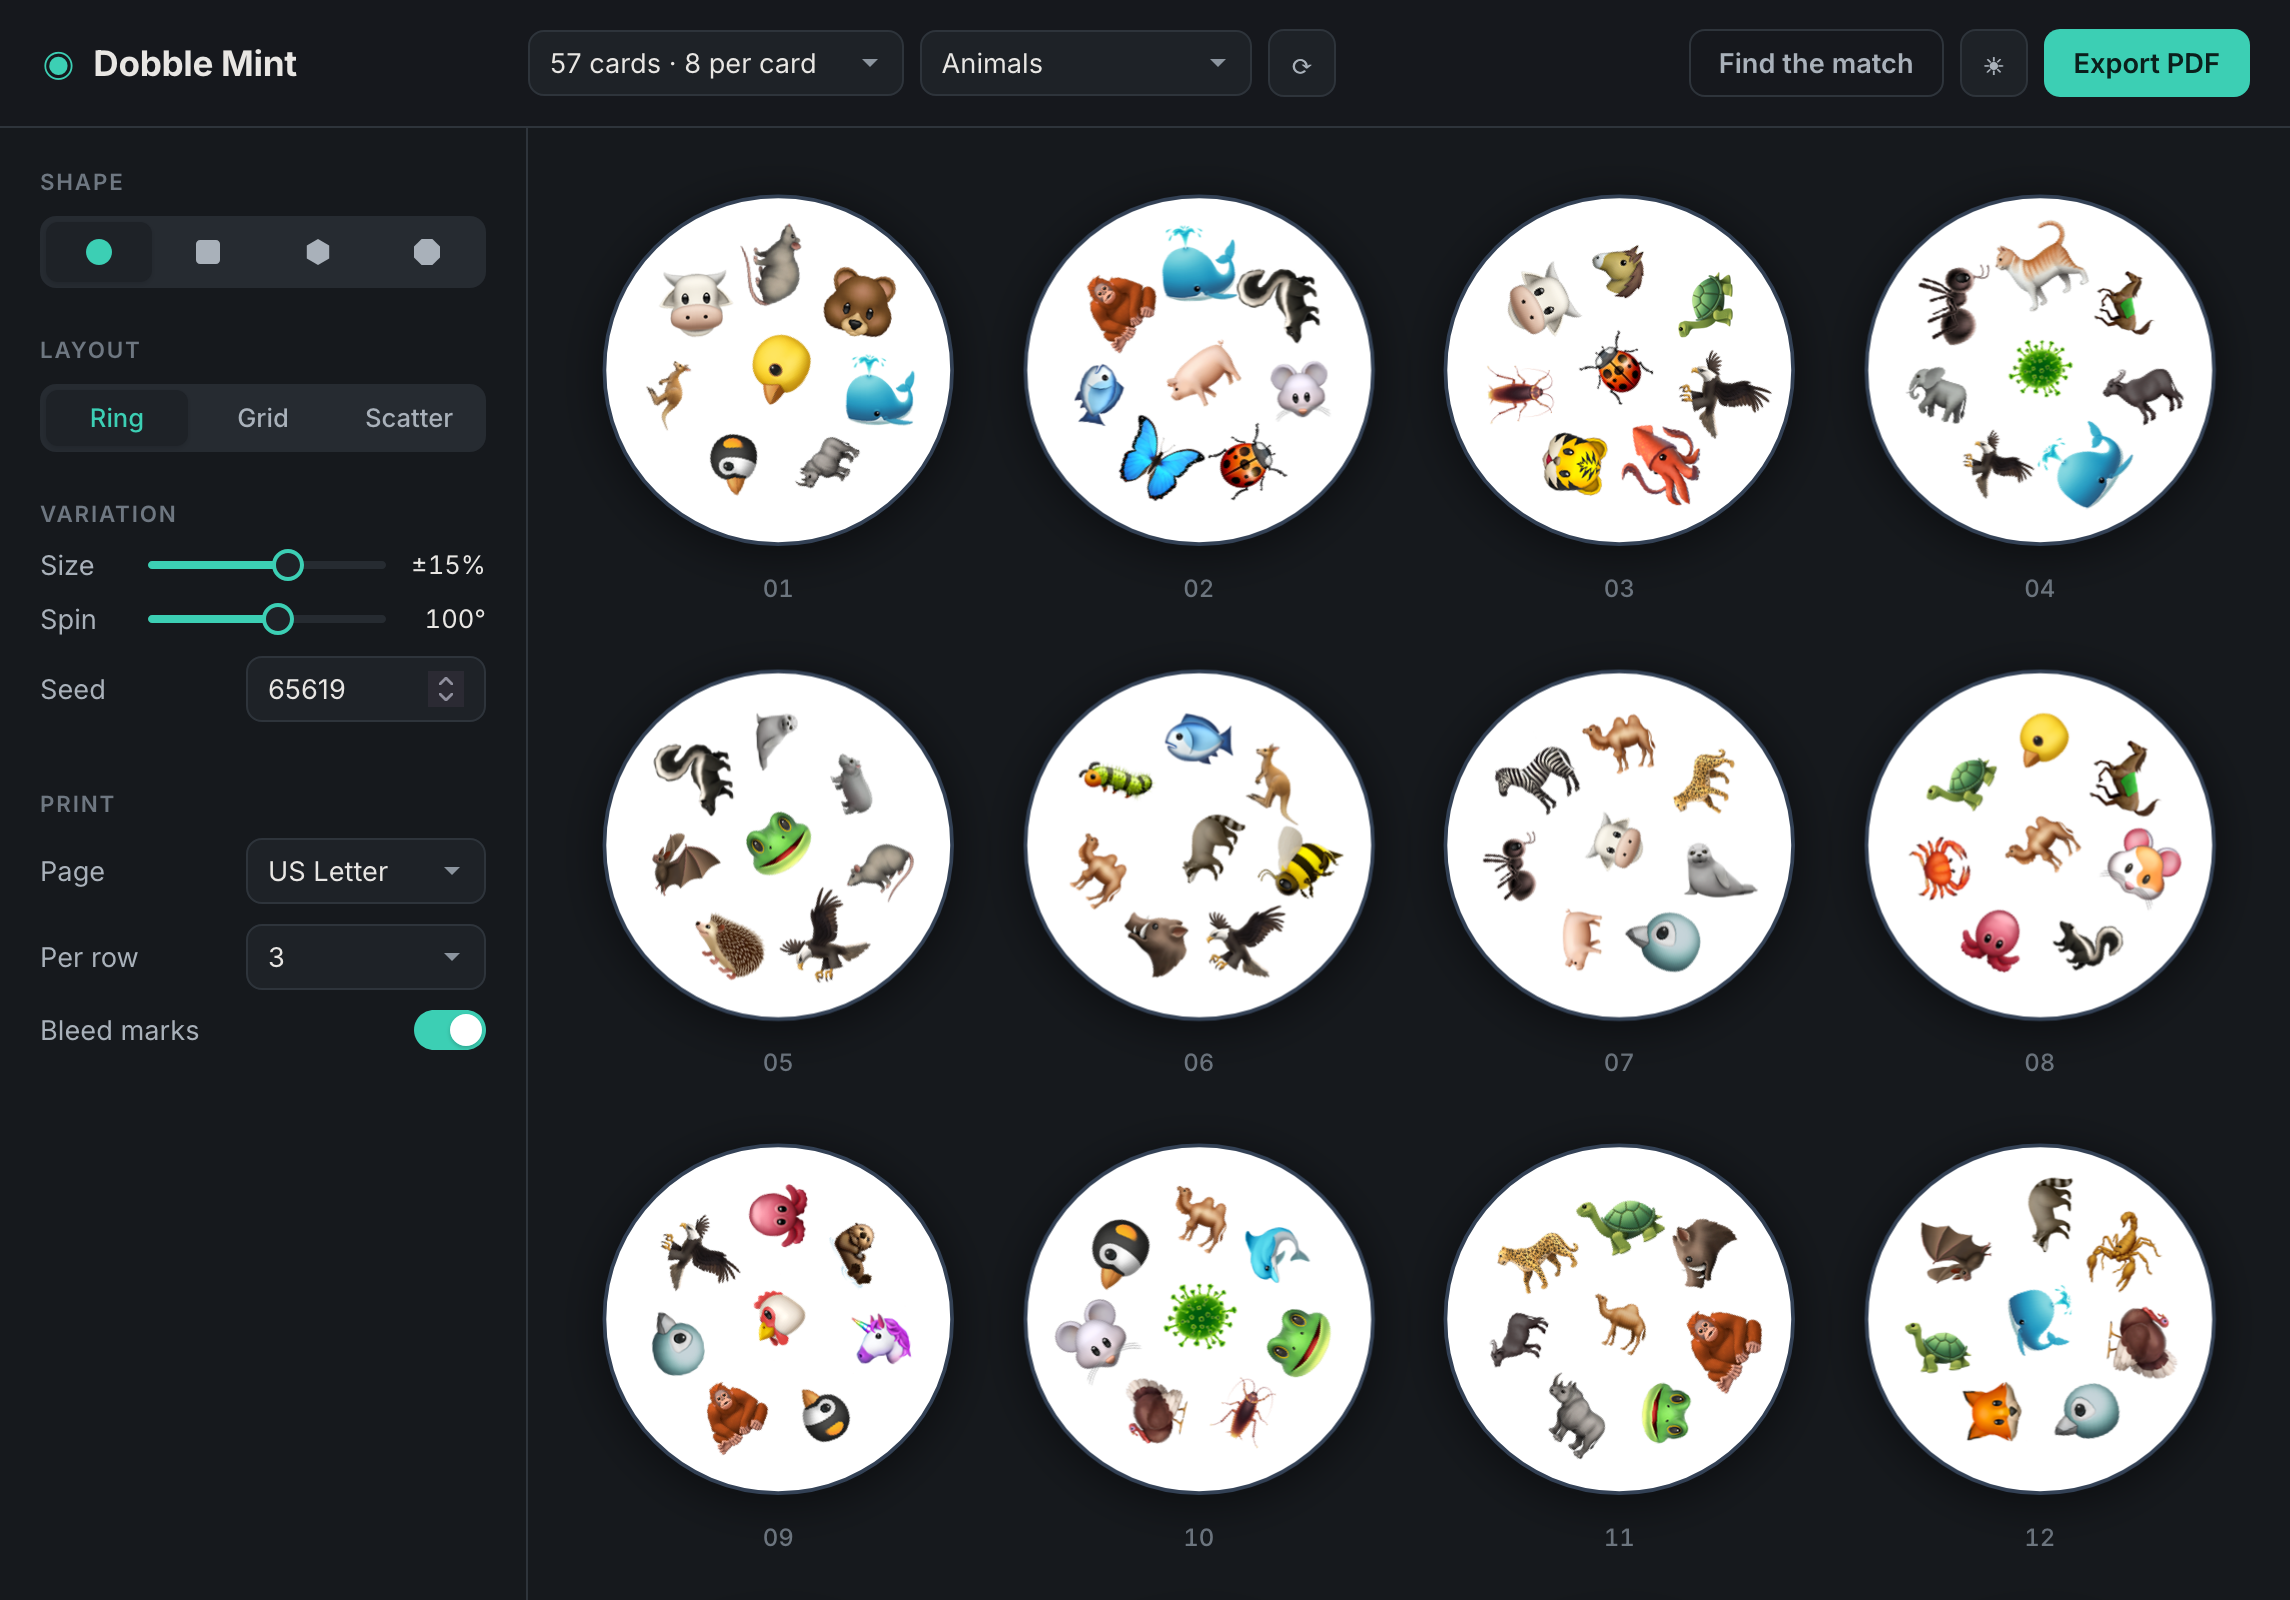
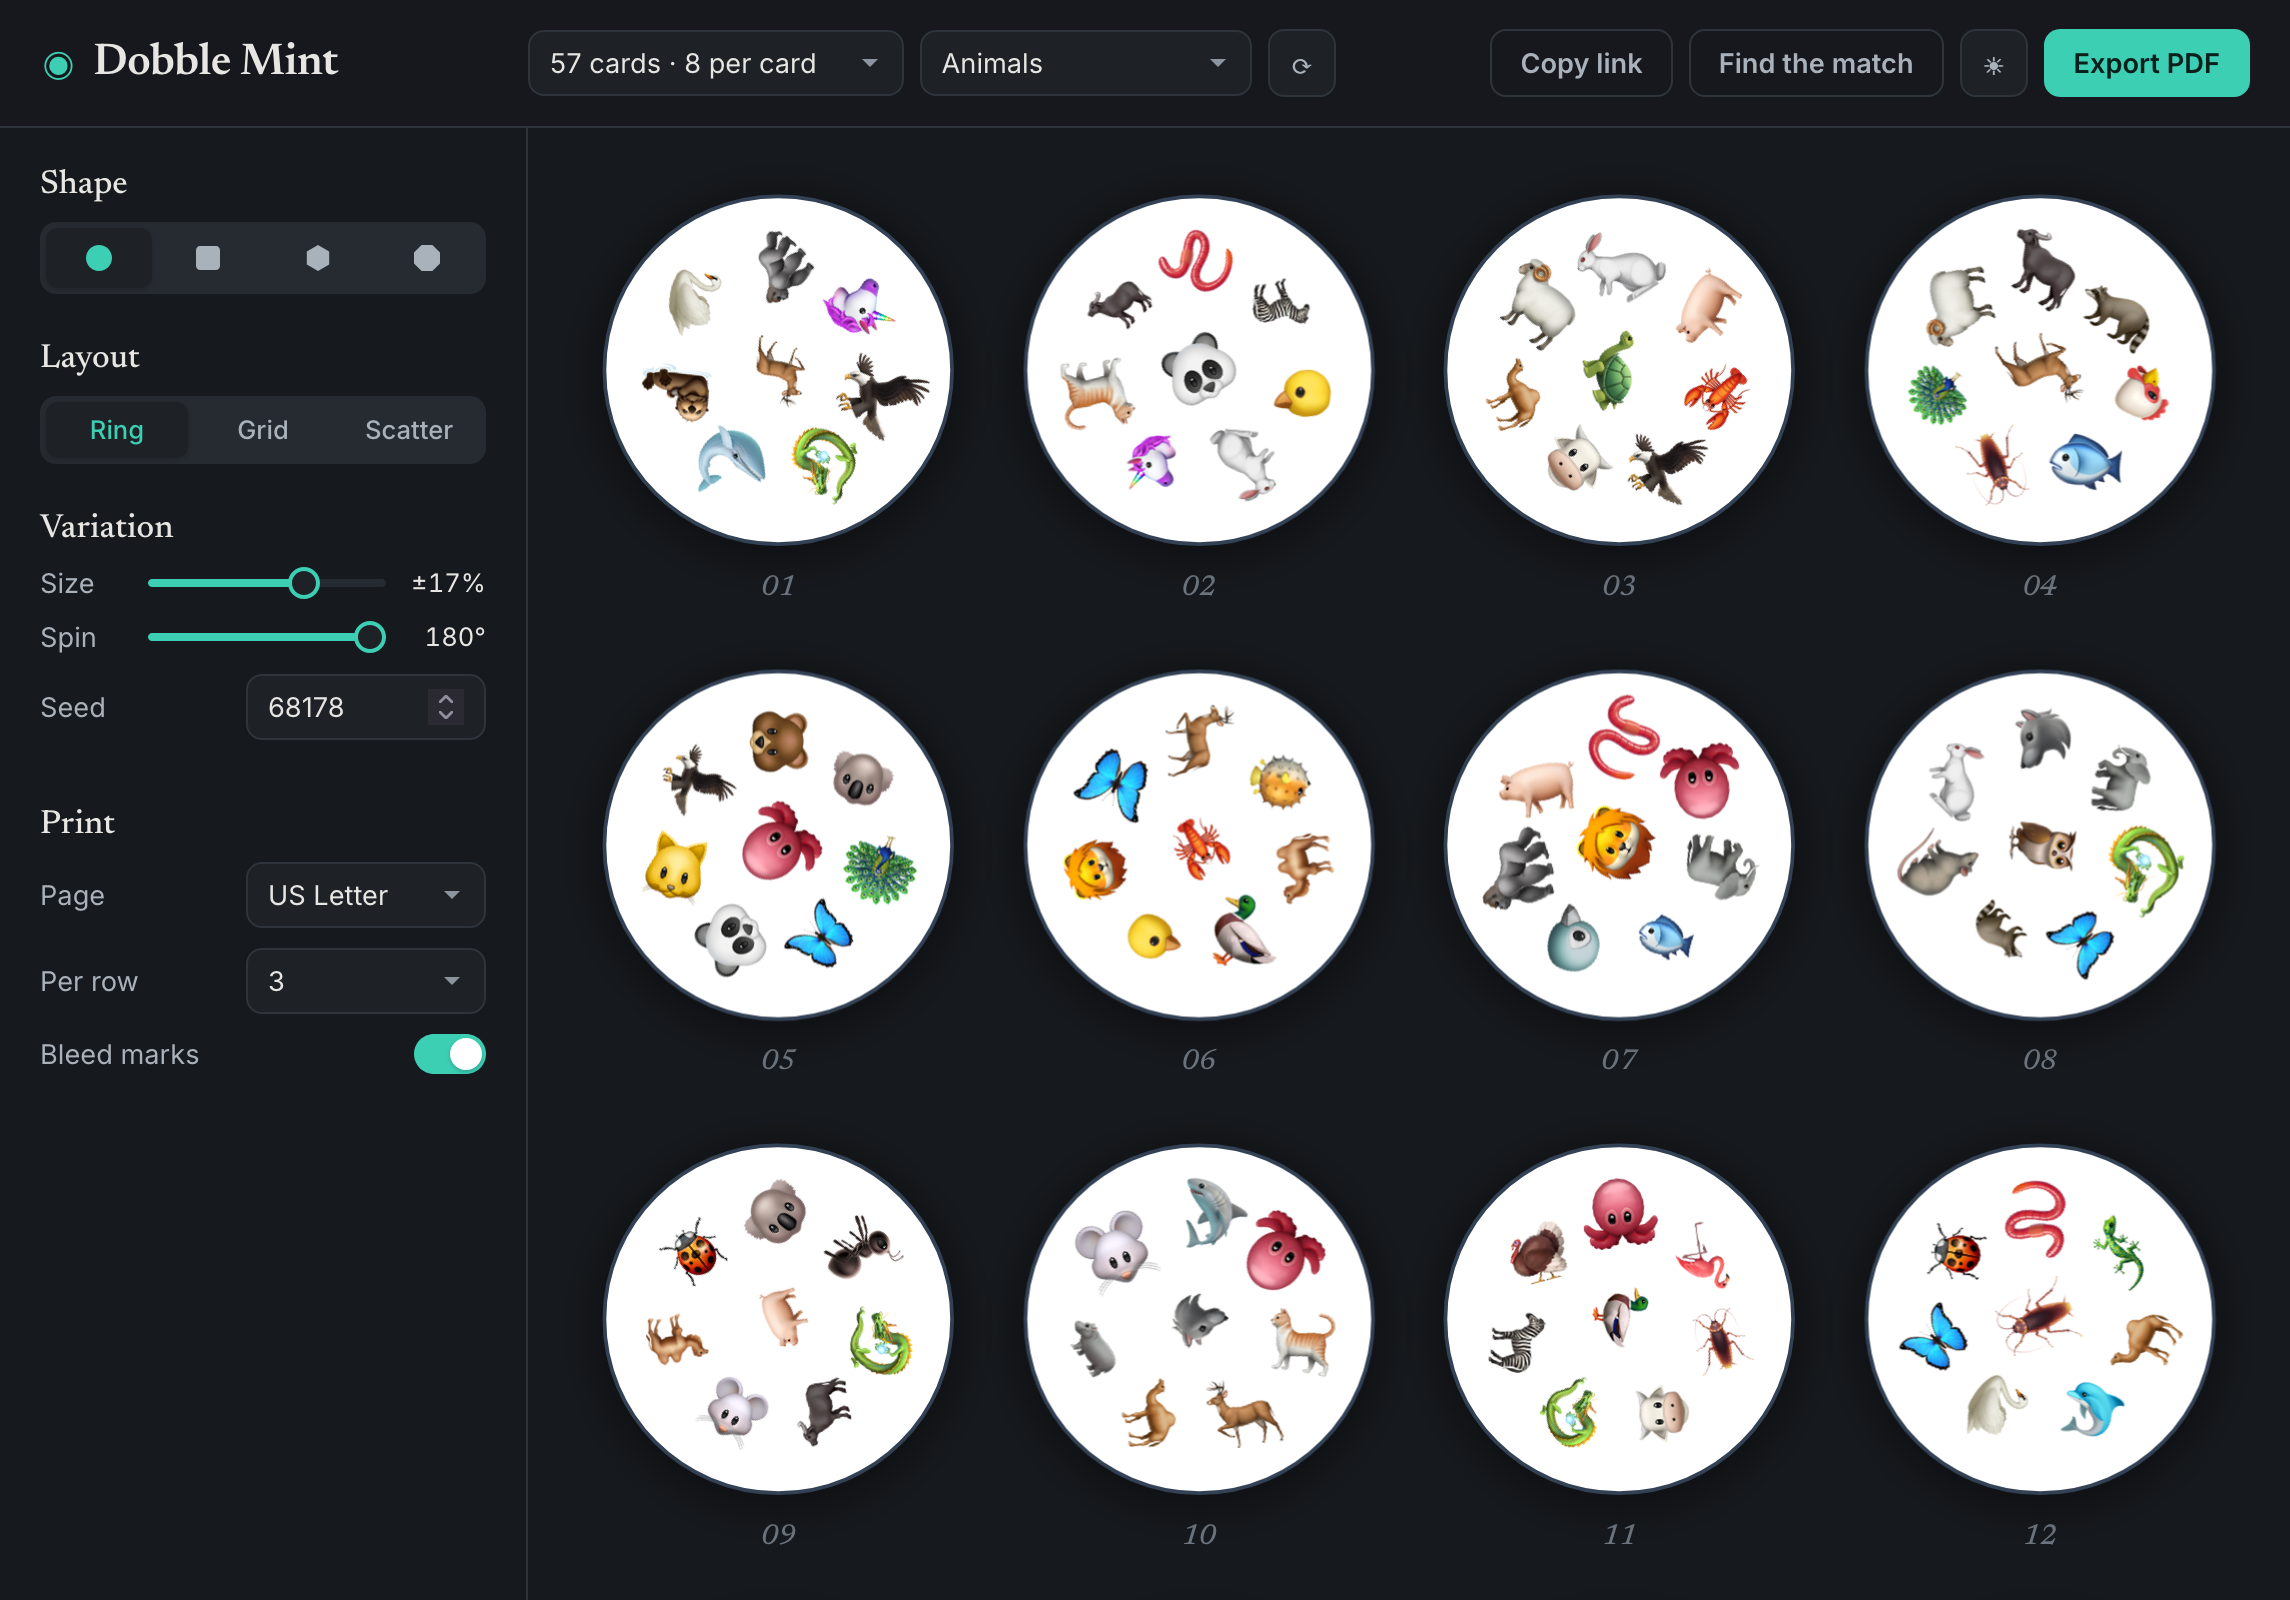
feat: shareable URL state and Newsreader serif headings
- Mirror all settings and the seed into the URL hash so links recreate
  the exact deck; invalid values are ignored and hash edits apply live
- Add a Copy link button to the top bar
- Use Newsreader for the brand, section titles, and card numbers; keep
  Inter for controls
- Update docs and preview image

diff --git a/js/app.js b/js/app.js
@@ -24,14 +24,18 @@ const SpotItApp = (() => {
   let matchMode = false;
   let selected = [];
   let preferredTheme = state.theme; // user's last explicit pick; restored when it fits again
+  const sliderSyncs = {};
 
   function newSeed() {
     return 1 + Math.floor(Math.random() * 99999);
   }
 
   function init() {
+    readUrlState();
     bindControls();
+    syncControls();
     regenerate();
+    window.addEventListener('hashchange', () => { readUrlState(); syncControls(); regenerate(); });
   }
 
   function bindControls() {
@@ -89,10 +93,32 @@ const SpotItApp = (() => {
     });
 
     // Export
-    document.getElementById('page-size').addEventListener('change', e => { state.pageSize = e.target.value; });
-    document.getElementById('cards-per-row').addEventListener('change', e => { state.cardsPerRow = +e.target.value; });
-    document.getElementById('bleed-marks').addEventListener('change', e => { state.bleedMarks = e.target.checked; });
+    document.getElementById('page-size').addEventListener('change', e => {
+      state.pageSize = e.target.value;
+      writeUrlState();
+    });
+    document.getElementById('cards-per-row').addEventListener('change', e => {
+      state.cardsPerRow = +e.target.value;
+      writeUrlState();
+    });
+    document.getElementById('bleed-marks').addEventListener('change', e => {
+      state.bleedMarks = e.target.checked;
+      writeUrlState();
+    });
     document.getElementById('generate-pdf-btn').addEventListener('click', handleGeneratePDF);
+
+    // Copy link
+    const copyBtn = document.getElementById('copy-link-btn');
+    copyBtn.addEventListener('click', async () => {
+      writeUrlState();
+      try {
+        await navigator.clipboard.writeText(location.href);
+        copyBtn.textContent = 'Copied';
+      } catch {
+        copyBtn.textContent = 'Copy failed';
+      }
+      setTimeout(() => { copyBtn.textContent = 'Copy link'; }, 1500);
+    });
 
     // Color scheme
     const schemeBtn = document.getElementById('color-scheme-btn');
@@ -126,8 +152,7 @@ const SpotItApp = (() => {
       output.textContent = format(state[key]);
       input.style.setProperty('--fill', `${(100 * (state[key] - input.min)) / (input.max - input.min)}%`);
     };
-    input.value = state[key];
-    sync();
+    sliderSyncs[key] = () => { input.value = state[key]; sync(); };
     input.addEventListener('input', e => {
       state[key] = +e.target.value;
       sync();
@@ -155,12 +180,72 @@ const SpotItApp = (() => {
     });
   }
 
+  // ---------- URL state ----------
+
+  /** Merge valid settings from the URL hash into `state`; invalid or missing keys are ignored. */
+  function readUrlState() {
+    const params = new URLSearchParams(location.hash.slice(1));
+    const int = (key, ok) => {
+      const v = Number(params.get(key));
+      return params.has(key) && Number.isSafeInteger(v) && ok(v) ? v : undefined;
+    };
+    const oneOf = (key, list) => (list.includes(params.get(key)) ? params.get(key) : undefined);
+
+    const parsed = {
+      order: int('order', v => SpotItMath.SUPPORTED_ORDERS.includes(v)),
+      theme: oneOf('theme', SpotItSymbols.getThemes().map(t => t.key)),
+      shape: oneOf('shape', ['circle', 'square', 'hexagon', 'octagon']),
+      layout: oneOf('layout', ['ring', 'grid', 'random']),
+      sizeVariance: int('size', v => v >= 0 && v <= 25),
+      maxAngle: int('spin', v => v >= 0 && v <= 180 && v % 10 === 0),
+      seed: int('seed', v => v >= 0 && v <= 0xFFFFFFFF),
+      pageSize: oneOf('page', ['a4', 'letter']),
+      cardsPerRow: int('perRow', v => [2, 3, 4].includes(v)),
+      bleedMarks: params.has('bleed') ? params.get('bleed') !== '0' : undefined,
+    };
+    for (const [key, value] of Object.entries(parsed)) {
+      if (value !== undefined) state[key] = value;
+    }
+    if (parsed.theme) preferredTheme = parsed.theme;
+  }
+
+  /** Mirror `state` into the URL hash without adding history entries. */
+  function writeUrlState() {
+    const params = new URLSearchParams({
+      order: state.order,
+      theme: preferredTheme,
+      shape: state.shape,
+      layout: state.layout,
+      size: state.sizeVariance,
+      spin: state.maxAngle,
+      seed: state.seed,
+      page: state.pageSize,
+      perRow: state.cardsPerRow,
+      bleed: state.bleedMarks ? 1 : 0,
+    });
+    history.replaceState(null, '', `#${params}`);
+  }
+
+  /** Push `state` into every control (used on load and when the hash changes). */
+  function syncControls() {
+    document.getElementById('order-select').value = state.order;
+    populateThemes();
+    document.getElementById(`shape-${state.shape}`).checked = true;
+    document.getElementById(`layout-${state.layout}`).checked = true;
+    Object.values(sliderSyncs).forEach(sync => sync());
+    document.getElementById('seed-input').value = state.seed;
+    document.getElementById('page-size').value = state.pageSize;
+    document.getElementById('cards-per-row').value = state.cardsPerRow;
+    document.getElementById('bleed-marks').checked = state.bleedMarks;
+  }
+
   function scheduleUpdate() {
     clearTimeout(debounceTimer);
     debounceTimer = setTimeout(regenerate, 200);
   }
 
   function regenerate() {
+    writeUrlState();
     let rawDeck;
     try {
       rawDeck = SpotItMath.buildDeck(state.order);

diff --git a/css/style.css b/css/style.css
@@ -1,6 +1,6 @@
 /* ===== Dobble Mint · Tabletop design ===== */
 
-@import url('https://fonts.googleapis.com/css2?family=Inter:wght@400;500;600;700&display=swap');
+@import url('https://fonts.googleapis.com/css2?family=Inter:wght@400;500;600;700&family=Newsreader:ital,opsz,wght@0,6..72,400;0,6..72,500;0,6..72,600;1,6..72,500&display=swap');
 
 /* ---------- Design tokens ---------- */
 :root {
@@ -20,6 +20,9 @@
 
   --card-shadow: 0 1px 2px rgba(60, 45, 20, 0.08), 0 6px 18px rgba(60, 45, 20, 0.10);
   --card-shadow-lift: 0 2px 4px rgba(60, 45, 20, 0.10), 0 14px 32px rgba(60, 45, 20, 0.16);
+
+  --font-sans: 'Inter', system-ui, -apple-system, sans-serif;
+  --font-serif: 'Newsreader', Georgia, 'Times New Roman', serif;
 
   --radius-sm: 8px;
   --radius-md: 12px;
@@ -61,7 +64,7 @@
 }
 
 body {
-  font-family: 'Inter', system-ui, -apple-system, sans-serif;
+  font-family: var(--font-sans);
   font-size: 14px;
   background: var(--bg);
   color: var(--ink);
@@ -129,8 +132,9 @@ body {
 }
 
 .brand-name {
-  font-size: 1.1rem;
-  font-weight: 700;
+  font-family: var(--font-serif);
+  font-size: 1.4rem;
+  font-weight: 600;
   letter-spacing: -0.01em;
 }
 
@@ -161,11 +165,10 @@ body {
 }
 
 .panel-title {
-  font-size: 0.7rem;
-  font-weight: 600;
-  text-transform: uppercase;
-  letter-spacing: 0.08em;
-  color: var(--ink-muted);
+  font-family: var(--font-serif);
+  font-size: 1.05rem;
+  font-weight: 500;
+  color: var(--ink);
   margin-bottom: 10px;
 }
 
@@ -464,7 +467,9 @@ input[type="range"]::-moz-range-thumb {
 }
 
 .card-label {
-  font-size: 0.75rem;
+  font-family: var(--font-serif);
+  font-size: 0.9rem;
+  font-style: italic;
   font-weight: 500;
   font-variant-numeric: tabular-nums;
   color: var(--ink-muted);

diff --git a/index.html b/index.html
@@ -35,6 +35,7 @@
       </div>
 
       <div class="topbar-actions">
+        <button class="btn btn-ghost" id="copy-link-btn" title="Copy a link to this exact deck">Copy link</button>
         <button class="btn btn-ghost" id="match-btn" aria-pressed="false"
           title="Click two cards to reveal their shared symbol">Find the match</button>
         <button class="btn btn-icon" id="color-scheme-btn" title="Toggle dark mode"

diff --git a/CLAUDE.md b/CLAUDE.md
@@ -48,6 +48,14 @@ Each rendered symbol is a `<g class="symbol" data-symbol="…">` containing a ha
 to reveal it. The PDF path serializes the SVG without page CSS, so highlights never print;
 keep highlight styling in CSS, not SVG attributes.
 
+### URL state
+
+All settings plus the seed are mirrored into the URL hash (`#order=7&theme=food&seed=…`) via
+`history.replaceState` on every regenerate and print-setting change. `readUrlState()` validates
+each key and ignores bad values; `syncControls()` pushes `state` into the DOM on load and on
+`hashchange`. New settings need a parse rule, a write key, and a `syncControls()` line. The URL
+stores the user's preferred theme, not the Mixed fallback.
+
 ### Reproducibility
 
 One PRNG seeded from `state.seed` drives symbol shuffling and all per-card layout randomness,
@@ -59,6 +67,8 @@ when changing the renderer.
 
 `css/style.css` uses a "tabletop" design with light and dark tokens on `:root` and
 `:root[data-theme="dark"]`. An inline script in `index.html` sets `data-theme` before first
-paint from `localStorage` (`dm-theme`) or `prefers-color-scheme`.
+paint from `localStorage` (`dm-theme`) or `prefers-color-scheme`. Fonts: Inter
+(`--font-sans`) for controls, Newsreader (`--font-serif`) for brand, section titles, and card
+numbers.
 
 Deferred ideas live in `IDEAS.md`.

diff --git a/README.md b/README.md
@@ -29,6 +29,7 @@ This generator currently supports prime orders $n \in \{2, 3, 5, 7, 11, 13\}$.
 - **Deep Customization:**
   - Size variance and rotation sliders.
   - Editable seed for reproducible decks.
+- **Shareable Links:** Every setting and the seed live in the URL, so a link recreates the exact deck.
 - **Find the Match:** Click any two cards to highlight the symbol they share.
 - **Light and Dark Modes:** Follows your system setting, with a manual toggle.
 - **High-Quality PDF Export:** Hardware-accelerated canvas rasterization generates incredibly crisp, print-ready PDFs (with optional bleed marks) while perfectly preserving complex system emojis without bloating file sizes.

diff --git a/IDEAS.md b/IDEAS.md
@@ -2,8 +2,6 @@
 
 Improvements considered but not yet implemented.
 
-- **Shareable URL state.** Persist all settings and the seed in the URL hash so a deck can be
-  bookmarked, shared, or regenerated exactly.
 - **Custom symbols.** Let users add their own text or uploaded images (family photos, class
   vocabulary). Needs a symbol editor and image support in both the SVG renderer and PDF export.
 - **Card backs.** Optional back design (logo, pattern) printed on alternating pages for duplex.
